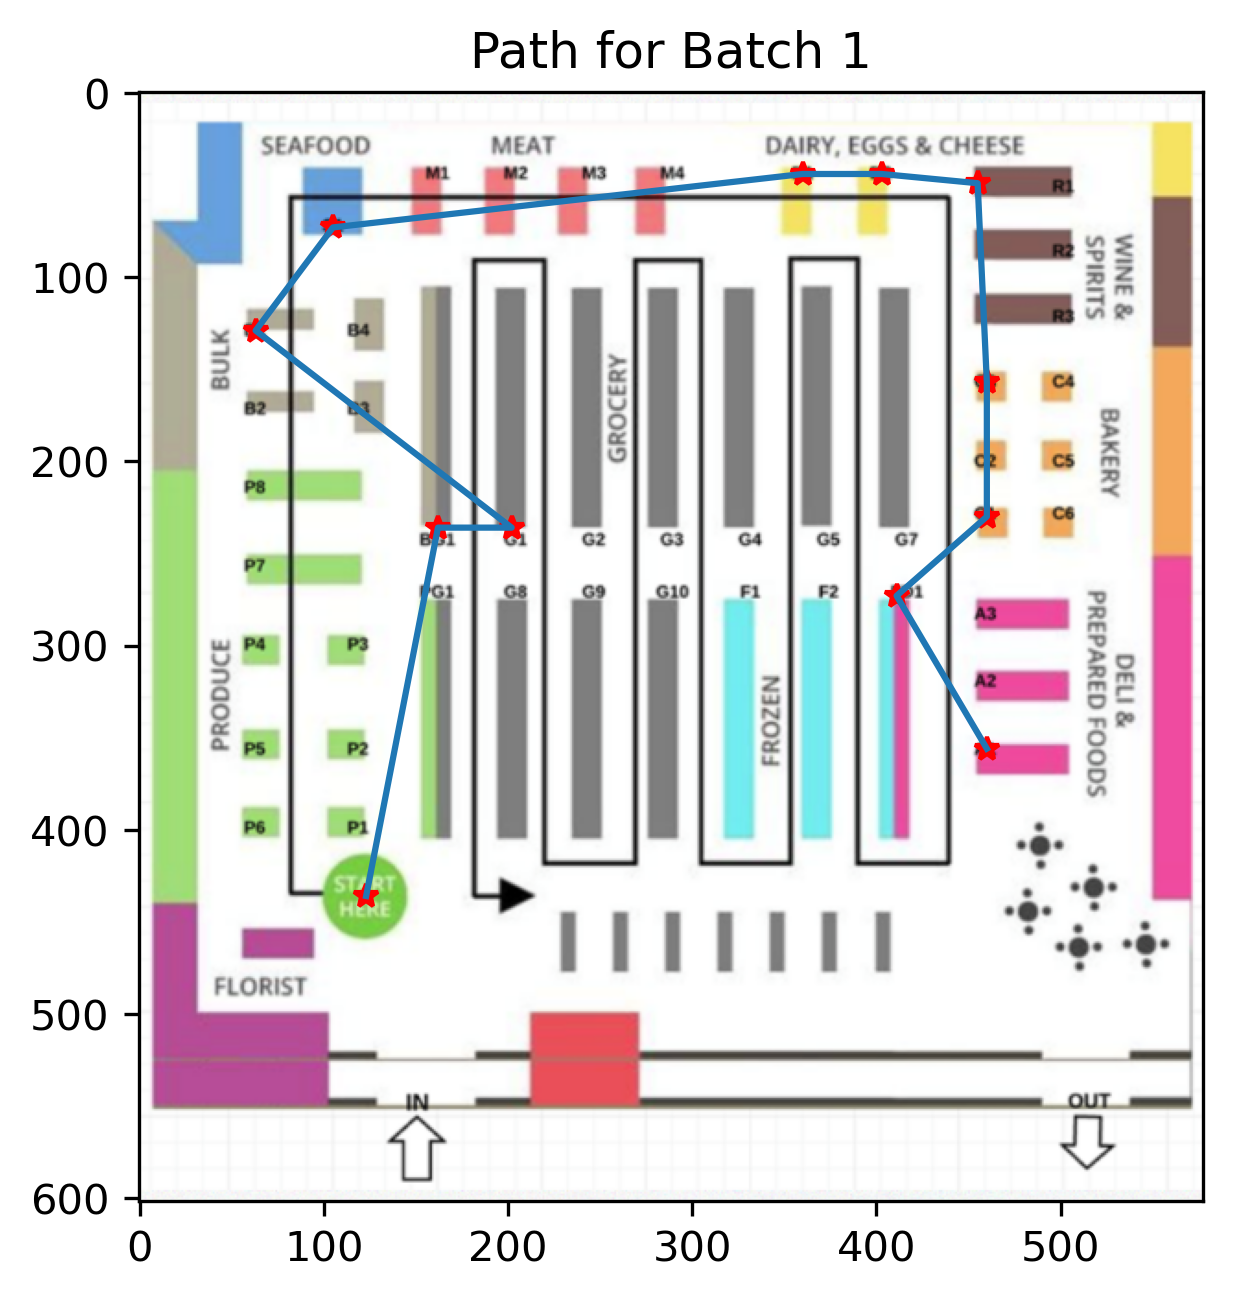
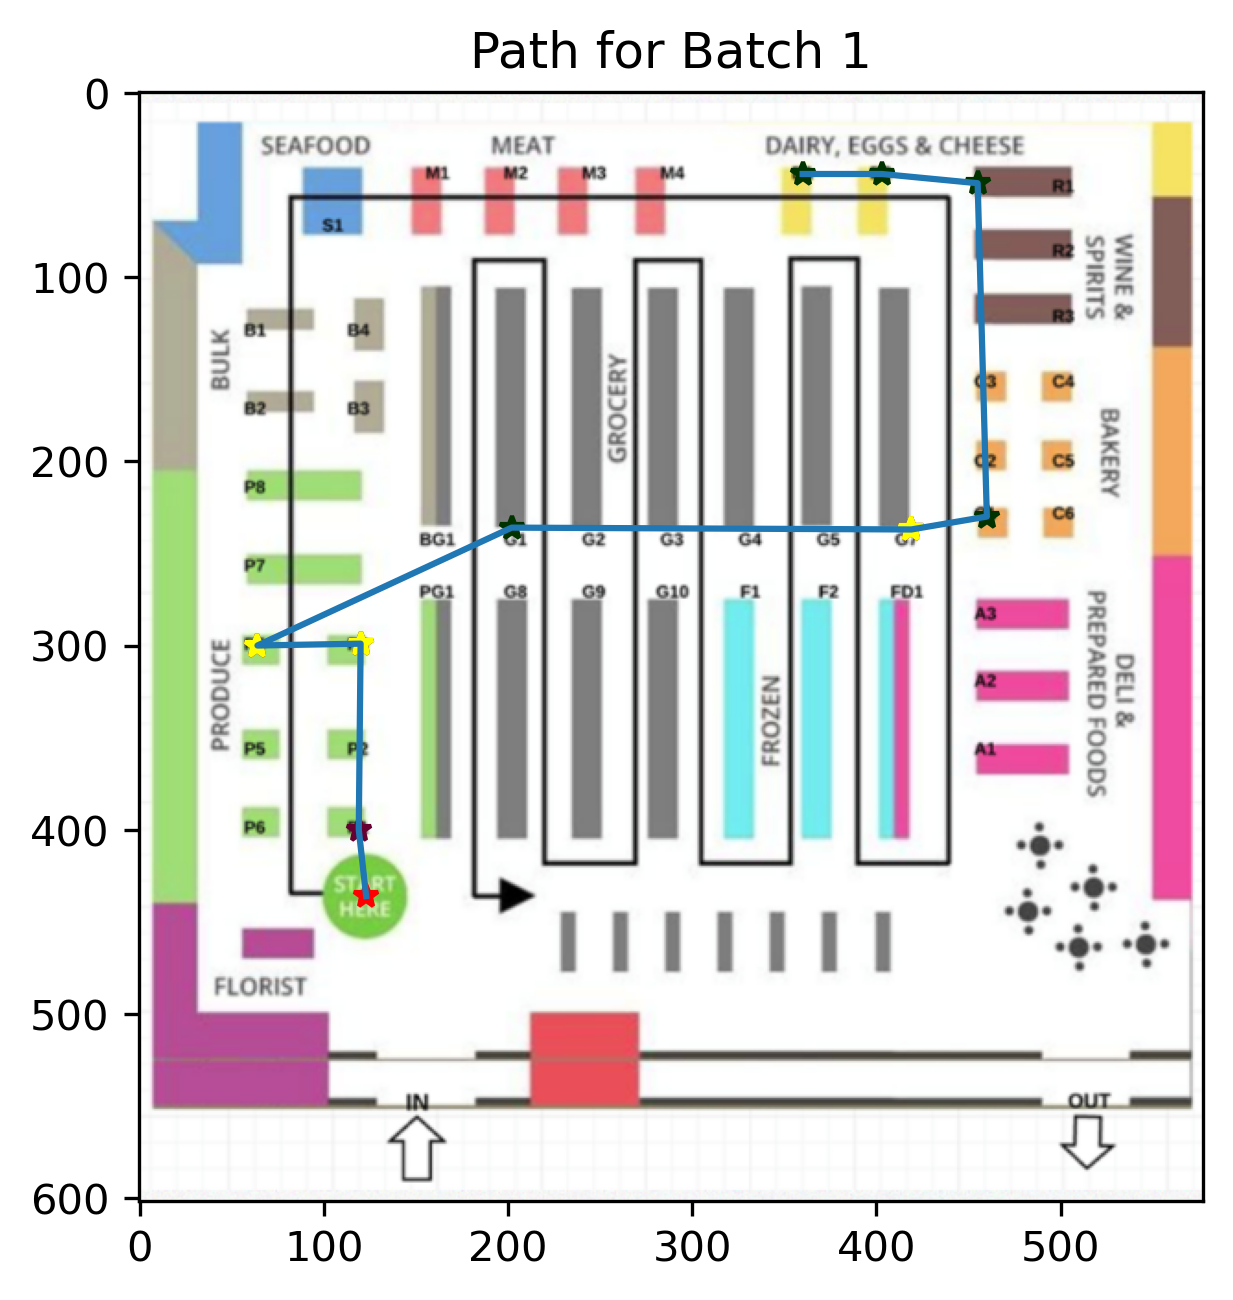
Front end update

diff --git a/Walket-Django/Walket/templates/Output.html b/Walket-Django/Walket/templates/Output.html
@@ -29,6 +29,7 @@ td, th {
 <th>Shelf</th>
 <th>Optimal path</th>
 <th>Cost</th>
+<th>Actual Cost</th>
 </tr>
 {% for batch in table %}
 	<tr>

diff --git a/Walket-Django/Walket/WB/dijkstra.py b/Walket-Django/Walket/WB/dijkstra.py
@@ -6,6 +6,7 @@ import matplotlib.pyplot as plt
 from PIL import Image
 from pylab import *
 
+
 from django.core.files.storage import FileSystemStorage
 
 #distance calculation
@@ -80,11 +81,36 @@ def shortest_path(node_list, edges, start):
        
         unvisited.remove(current_node)
         visited.append(current_node)
-    return visited, total_weight 
+    return visited, round(total_weight,3) 
 
+def actual_path(node_list, edges, start):
+    neighbor = 0
+    unvisited = []
+    visited = []
+    total_weight = 0
+    current_node = start
+    #print(node_list)
+    for node in node_list:
+        if node[2] == start:
+            visited.append(start)
+        else:
+            unvisited.append(node[2])
+    
+    #while unvisited:
+    for index, neighbor in enumerate(unvisited):
+           
+        current_weight = edges[start, neighbor] 
+        current_node = neighbor
+        total_weight += current_weight
+        
+        start =  current_node
+    #print("Total weight = ",total_weight)
+        visited.append(current_node)
+    unvisited.remove(current_node)
+    return  round(total_weight,3) 
 
 def find_path(orders):
-    print("*************************orders*******Dijiskstra")
+    print("*************************orders*******Dijikstra")
     print(orders)
 
       
@@ -93,6 +119,8 @@ def find_path(orders):
     # orders = [[['R1', 'G1', 'C1', 'D1', 'D2'], ['A1', 'C3', 'B1'], ['R1', 'S1', 'BG1', 'FA1']], [['C3', 'R1', 'M1', 'M2'], ['P1', 'P3', 'P4', 'G6', 'G7'], ['P3', 'P4', 'G6', 'G7']]]
     #orders = [[['P1' , 'P2', 'PG1' , 'G8'],['G10','F1', 'F2' , 'A3'],['M1','M2','D1','R3','C1']]]
     cnt=1
+    total_cost = 0
+    actual_total_cost = 0
     col=0
     fs = FileSystemStorage()
     media_dir = "F:\\Walket-Django\\Walket\\media\\" 
@@ -100,10 +128,11 @@ def find_path(orders):
     batchnos= []
     shortest_paths = []
     costs = []
+    actual_costs = []
     
 
     for i in orders:
-        
+        col = 0
         coord_aisles = {"start":[123 , 436],"A1":[460 , 356],"A2":[461 , 318],"A3":[461 , 282],
         "C1":[460 , 230],"C2":[460 , 197],"C3":[460 , 157],"C4":[501 , 159],"C5":[500 , 199],"C6":[502 , 229],
         "R1":[455 , 49],"R2":[455 , 84],"R3":[455 , 119],
@@ -113,6 +142,8 @@ def find_path(orders):
         "G1":[202 , 236],"G2":[247 , 237],"G3":[290 , 237],"G4":[331 , 237],"G5":[375 , 237],"G7":[419 , 237],"G8":[207 , 276],"G9":[248 , 276],"G10":[289 , 276],
         "F1":[326 , 276],"F2":[375 , 272],"BG1":[162 , 236],"PG1":[161 , 277],"FD1":[411 , 273]} 
         #print("coord_aisles == ",coord_aisles)  
+        current_batch = []
+        current_batch = i
         order = []
         for j in i:
             for k in range(0,len(j)): 
@@ -153,6 +184,10 @@ def find_path(orders):
         
         
         sp,weight = shortest_path(coords, edges, 1)
+        actual_weight = actual_path(coords, edges, 1)
+        total_cost += weight
+        actual_total_cost += actual_weight
+        
         shortest_path_taken = []
         print(sp) 
         
@@ -168,10 +203,12 @@ def find_path(orders):
         print("Batch no : ", cnt)
         print("Path : ", shortest_path_taken)
         print("Cost : ",weight )
+        print("Actual cost : ",actual_weight)
         print("------------------------------------------------------------------------")
         batchnos.append(cnt)
         shortest_paths.append(shortest_path_taken)
         costs.append(weight)
+        actual_costs.append(actual_weight)
        
         im = array(Image.open(media_dir+"Map.png"))
         
@@ -181,7 +218,7 @@ def find_path(orders):
         # some points
         x=[]
         y=[]
-        colors=['#1f77b4', '#008000', '#9467bd','#800040',
+        colors=colors=['#660033', '#ffff00','#003300', '#9467bd','#800040',
         '#8c564b', '#e377c2', '#7f7f7f', '#bcbd22', '#17becf','#9842f5','#a4e60b','#ff1a8c']
         for i in shortest_path_taken:
             if i in coord_aisles:
@@ -189,19 +226,41 @@ def find_path(orders):
                 x.append(coord_aisles[i][0])
                 y.append(coord_aisles[i][1])
 
+        batch=0
+        u = 1
+        plot(x[0],y[0],'r*')
+        for user in current_batch:
+            for point in user:
+                if point in shortest_path_taken:
+                    ind = shortest_path_taken.index(point)
+                    print(ind)
+                    #for (a, b) in zip(x,y):
+                    if(coord_aisles[point][0] == x[ind] and coord_aisles[point][1] == y[ind]):
+                        plot(x[ind],y[ind],colors[col],marker='*')
+                        
+                #print("user " + point + "color = ", colors[col])
+
+                   
+            col+=1
+        #print("Current batch =",current_batch)    
+
         # plot the points with red star-markers
-        plot(x,y,'r*')
+       
 
         # line plot connecting the first two points
-        plot(x[:],y[:],colors[col])
-        col+=1
+        plot(x[:],y[:])
+       
 
         # add title and show the plot
-        title('Path for Batch '+str(cnt))
+        title('Path for Batch '+str(cnt)) 
         if fs.exists(str(cnt)+'.png'): fs.delete(str(cnt)+'.png')
         imgnames.append("path"+str(cnt)+'.png')
         plt.savefig(media_dir+'path'+str(cnt)+'.png', dpi=300, bbox_inches='tight') 
         plt.close()
         cnt+=1 
-       
-    return batchnos, shortest_paths, costs, imgnames
+
+
+
+        
+    return batchnos, shortest_paths, costs,actual_costs, imgnames
+    

diff --git a/Walket-Django/Walket/WB/lavenshtein.py b/Walket-Django/Walket/WB/lavenshtein.py
@@ -4,9 +4,34 @@ import numpy as np
 
 
 
-def batch(order_to_products_mapping, order_ids, aisles, shelves_list):
+def batch(orig_order_ids, orig_aisles, orig_shelves_list):
+
+    aisles = sorted(orig_aisles, key = orig_aisles.count, 
+                                    reverse = True) 
     length = len(aisles)
-    leven_matrix = np.zeros((length,length))                            #initialise an empty matrix 
+
+    indexes = []
+    indexes_done = []
+    for i in range(0,length):
+        for j in range(0,length):
+            if aisles[i] == orig_aisles[j] and j not in indexes_done:
+                indexes.append(j)
+                indexes_done.append(j)
+    print("******indexes****",indexes)
+    order_ids = []
+    shelves_list = []
+    leven_matrix = np.zeros((length,length),dtype=int)                            #initialise an empty matrix 
+
+    for ind in indexes:
+        order_ids.append(orig_order_ids[ind])
+        shelves_list.append(orig_shelves_list[ind])
+    print("****sorted***")
+    print(aisles)
+    print(order_ids)
+    print(shelves_list)
+    
+    
+    leven_matrix = np.zeros((length,length),dtype=int)                            #initialise an empty matrix 
 
 
     def invalidate(start,id,col):               #once aisles of user are processed, mark them as 999 so that they won't be 
@@ -25,18 +50,18 @@ def batch(order_to_products_mapping, order_ids, aisles, shelves_list):
             if i == j:
                 leven_matrix[i][j] = 999
 
-
+    n = 3
     done = []                                   #list of processed elements
-    batches = []                                #list of aisles in group of 3
-    order_batches = []                          #list of orders in group of 3
-    shelves_batches = []                        #list of shelves corresponding to 3 order_ids
+    batches = []                                #list of aisles in group of n
+    order_batches = []                          #list of orders in group of n
+    shelves_batches = []                        #list of shelves corresponding to n order_ids
     for i in range(0,length):
-        if i not in done and len(batches)!=3:
+        if i not in done and length-len(done)>=n:
             current = aisles[i]
             col = []
-            top3 = []
-            order_3 = []
-            shelves_3 = []
+            top_n = []
+            order_n = []
+            shelves_n = []
 
             for j in range(0,length):
                 if i == j:
@@ -50,31 +75,26 @@ def batch(order_to_products_mapping, order_ids, aisles, shelves_list):
                         col.append(leven_matrix[j][i])      #999              
                     
             sorted_list = sorted(range(len(col)), key=lambda k: col[k])    #sort the column values and get indexes of sorted values.
+            top_indexes = sorted_list[:n-1]                                #select top n-1 indexes  
             
-            id1,id2 = sorted_list[:2]           #get top 2 indexes
-            done.append(id1)                    #mark it as "processed"
-            invalidate(i+1,id1,True)            #mark row and column values to 999
-            done.append(id2)                    
-            invalidate(i+1,id2,True)
-            
-            top3.append(current)
-            top3.append(aisles[id1])
-            top3.append(aisles[id2])
-
-            order_3.append(order_ids[i])
-            order_3.append(order_ids[id1])
-            order_3.append(order_ids[id2])
-
-            shelves_3.append(shelves_list[i])
-            shelves_3.append(shelves_list[id1])
-            shelves_3.append(shelves_list[id2])
-
+            top_n.append(current)
+            order_n.append(order_ids[i])
+            shelves_n.append(shelves_list[i])
+        
+            for id in top_indexes:
+                done.append(id)                    #mark it as "processed"
+                invalidate(i+1,id,True)
+                top_n.append(aisles[id])
+                order_n.append(order_ids[id])
+                shelves_n.append(shelves_list[id])
+                
+                
             if i not in done: done.append(i)
             invalidate(i+1,i,False)
 
-            batches.append(top3)
-            order_batches.append(order_3)
-            shelves_batches.append(shelves_3)
+            batches.append(top_n)
+            order_batches.append(order_n)
+            shelves_batches.append(shelves_n)
 
     left_aisles = []
     left_orders = []
@@ -85,7 +105,7 @@ def batch(order_to_products_mapping, order_ids, aisles, shelves_list):
 
     for i in range(0,length):
         '''
-        as batches of three, if the total number of orders received are not a multiple of three,
+        as batches of three, if the total number of orders received are not a multiple of n,
         orders will be left, add it to "left_aisles" and left_orders
         '''
         if i not in done:           

diff --git a/Walket-Django/Walket/WB/views.py b/Walket-Django/Walket/WB/views.py
@@ -28,8 +28,8 @@ def output(request):
 		
 		print("aisleList",aisleList)
 
-		batches, order_batches, shelves_batches = batch(data, orderList, aisleList, shelfList)
-		batchnos, shortest_paths, costs, imgnames = find_path(shelves_batches)
+		batches, order_batches, shelves_batches = batch(orderList, aisleList, shelfList)
+		batchnos, shortest_paths, costs, actual_costs, imgnames = find_path(shelves_batches)
 		
 		length = len(batches)
 		table = []
@@ -43,6 +43,7 @@ def output(request):
 			cell.append(shelves_batches[i])
 			cell.append(shortest_paths[i])
 			cell.append(costs[i])
+			cell.append(actual_costs[i])
 				
 			table.append(cell)
 		print(table)
